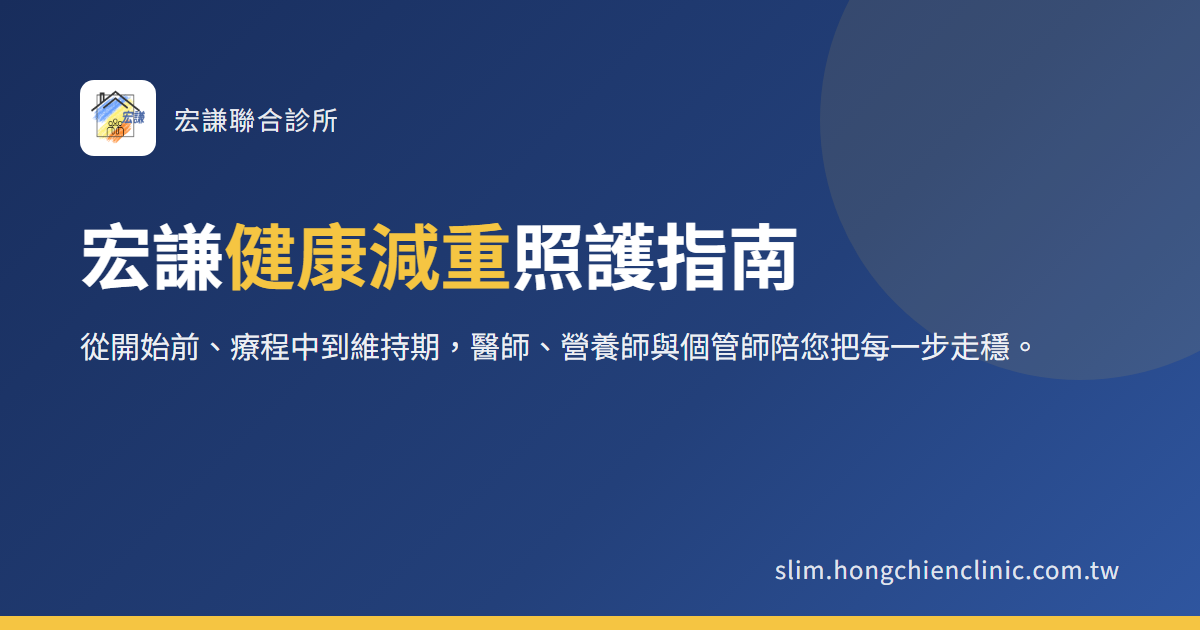
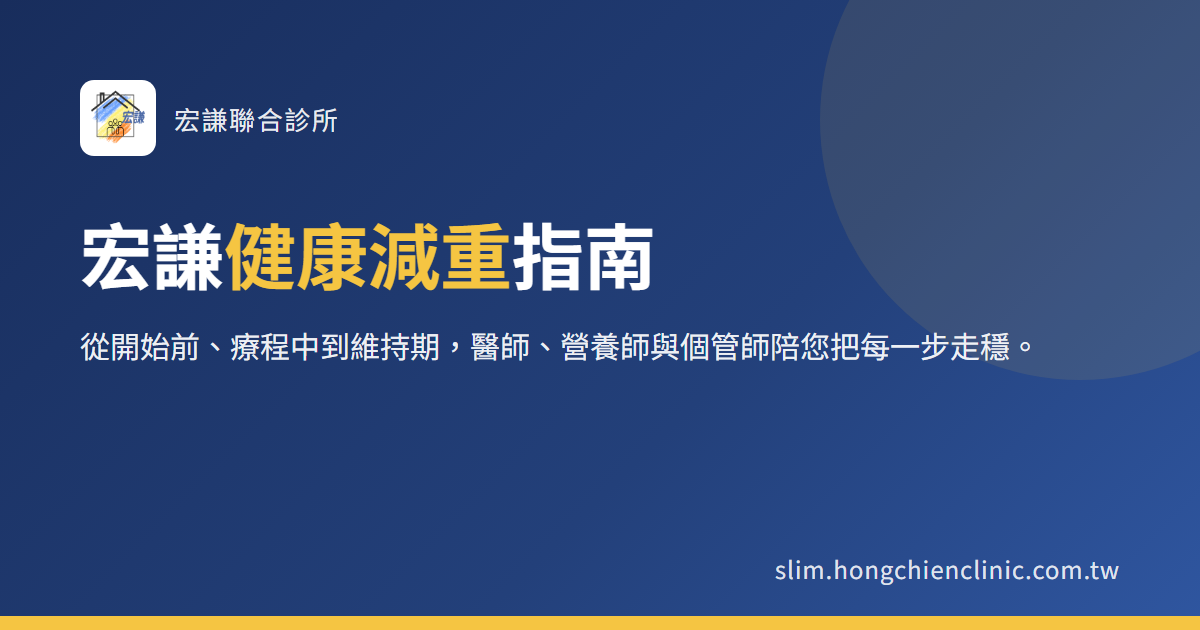
站名改為宏謙健康減重指南

Changed region(s): [[0.4317, 0.3317, 0.6783, 0.4825]]

diff --git a/docs/articles/research-ntuh-cancer-risk/index.html b/docs/articles/research-ntuh-cancer-risk/index.html
@@ -3,15 +3,15 @@
 <head>
 <meta charset="utf-8">
 <meta name="viewport" content="width=device-width, initial-scale=1">
-<title>研究怎麼說：台大醫院研究，肥胖者使用腸泌素，肥胖相關癌症風險下降四成｜宏謙健康減重照護指南</title>
+<title>研究怎麼說：台大醫院研究，肥胖者使用腸泌素，肥胖相關癌症風險下降四成｜宏謙健康減重指南</title>
 <meta name="description" content="2026 年 8 月台大醫院發表在《Annals of Oncology》的跨國研究：無糖尿病的肥胖成年人使用 GLP-1 類藥物，13 種肥胖相關癌症的整體發生風險比只做飲食運動諮詢的人低 41%。這篇說明研究怎麼做、看到什麼、該怎麼解讀。">
 <link rel="canonical" href="https://slim.hongchienclinic.com.tw/articles/research-ntuh-cancer-risk/">
 <meta property="og:type" content="article">
-<meta property="og:title" content="研究怎麼說：台大醫院研究，肥胖者使用腸泌素，肥胖相關癌症風險下降四成｜宏謙健康減重照護指南">
+<meta property="og:title" content="研究怎麼說：台大醫院研究，肥胖者使用腸泌素，肥胖相關癌症風險下降四成｜宏謙健康減重指南">
 <meta property="og:description" content="2026 年 8 月台大醫院發表在《Annals of Oncology》的跨國研究：無糖尿病的肥胖成年人使用 GLP-1 類藥物，13 種肥胖相關癌症的整體發生風險比只做飲食運動諮詢的人低 41%。這篇說明研究怎麼做、看到什麼、該怎麼解讀。">
 <meta property="og:url" content="https://slim.hongchienclinic.com.tw/articles/research-ntuh-cancer-risk/">
 <meta property="og:image" content="https://slim.hongchienclinic.com.tw/assets/img/og.png">
-<meta property="og:site_name" content="宏謙健康減重照護指南">
+<meta property="og:site_name" content="宏謙健康減重指南">
 <meta property="og:locale" content="zh_TW">
 <meta name="twitter:card" content="summary_large_image">
 <link rel="icon" href="/assets/img/logo-72.png">
@@ -26,7 +26,7 @@
 <a class="skip" href="#main">跳到主要內容</a>
 <header class="top">
   <div class="wrap top-in">
-    <a class="brand" href="/"><img src="/assets/img/logo-72.png" alt="" width="40" height="40"><span><b>宏謙</b>健康減重 照護指南</span></a>
+    <a class="brand" href="/"><img src="/assets/img/logo-72.png" alt="" width="40" height="40"><span><b>宏謙</b>健康減重指南</span></a>
     <nav class="nav" aria-label="主選單">
       <a href="/start/">開始前</a>
       <a href="/during/">療程中</a>

diff --git a/docs/articles/research-muscle-preservation/index.html b/docs/articles/research-muscle-preservation/index.html
@@ -3,15 +3,15 @@
 <head>
 <meta charset="utf-8">
 <meta name="viewport" content="width=device-width, initial-scale=1">
-<title>研究怎麼說：減重針期間的肌肉流失，蛋白質與阻力運動能擋住多少｜宏謙健康減重照護指南</title>
+<title>研究怎麼說：減重針期間的肌肉流失，蛋白質與阻力運動能擋住多少｜宏謙健康減重指南</title>
 <meta name="description" content="近年的臨床研究陸續指出，使用減重藥物時減掉的體重中有一部分是瘦體重；同時也有研究顯示，足夠的蛋白質與阻力運動能明顯減少這個比例。這對您的意義是什麼。">
 <link rel="canonical" href="https://slim.hongchienclinic.com.tw/articles/research-muscle-preservation/">
 <meta property="og:type" content="article">
-<meta property="og:title" content="研究怎麼說：減重針期間的肌肉流失，蛋白質與阻力運動能擋住多少｜宏謙健康減重照護指南">
+<meta property="og:title" content="研究怎麼說：減重針期間的肌肉流失，蛋白質與阻力運動能擋住多少｜宏謙健康減重指南">
 <meta property="og:description" content="近年的臨床研究陸續指出，使用減重藥物時減掉的體重中有一部分是瘦體重；同時也有研究顯示，足夠的蛋白質與阻力運動能明顯減少這個比例。這對您的意義是什麼。">
 <meta property="og:url" content="https://slim.hongchienclinic.com.tw/articles/research-muscle-preservation/">
 <meta property="og:image" content="https://slim.hongchienclinic.com.tw/assets/img/og.png">
-<meta property="og:site_name" content="宏謙健康減重照護指南">
+<meta property="og:site_name" content="宏謙健康減重指南">
 <meta property="og:locale" content="zh_TW">
 <meta name="twitter:card" content="summary_large_image">
 <link rel="icon" href="/assets/img/logo-72.png">
@@ -26,7 +26,7 @@
 <a class="skip" href="#main">跳到主要內容</a>
 <header class="top">
   <div class="wrap top-in">
-    <a class="brand" href="/"><img src="/assets/img/logo-72.png" alt="" width="40" height="40"><span><b>宏謙</b>健康減重 照護指南</span></a>
+    <a class="brand" href="/"><img src="/assets/img/logo-72.png" alt="" width="40" height="40"><span><b>宏謙</b>健康減重指南</span></a>
     <nav class="nav" aria-label="主選單">
       <a href="/start/">開始前</a>
       <a href="/during/">療程中</a>

diff --git a/docs/articles/protein-portions/index.html b/docs/articles/protein-portions/index.html
@@ -3,15 +3,15 @@
 <head>
 <meta charset="utf-8">
 <meta name="viewport" content="width=device-width, initial-scale=1">
-<title>蛋白質要吃到「份數」：1 份等於 1 顆蛋，每天 10 到 13 份怎麼算｜宏謙健康減重照護指南</title>
+<title>蛋白質要吃到「份數」：1 份等於 1 顆蛋，每天 10 到 13 份怎麼算｜宏謙健康減重指南</title>
 <meta name="description" content="用藥後吃得少，最怕減掉的是肌肉。宏謙診間用「份數」教蛋白質：1 份 7 克、等於 1 顆蛋，掌心大小的肉片算 2 份。這篇教您算自己的份數，也給您一天的範例。">
 <link rel="canonical" href="https://slim.hongchienclinic.com.tw/articles/protein-portions/">
 <meta property="og:type" content="article">
-<meta property="og:title" content="蛋白質要吃到「份數」：1 份等於 1 顆蛋，每天 10 到 13 份怎麼算｜宏謙健康減重照護指南">
+<meta property="og:title" content="蛋白質要吃到「份數」：1 份等於 1 顆蛋，每天 10 到 13 份怎麼算｜宏謙健康減重指南">
 <meta property="og:description" content="用藥後吃得少，最怕減掉的是肌肉。宏謙診間用「份數」教蛋白質：1 份 7 克、等於 1 顆蛋，掌心大小的肉片算 2 份。這篇教您算自己的份數，也給您一天的範例。">
 <meta property="og:url" content="https://slim.hongchienclinic.com.tw/articles/protein-portions/">
 <meta property="og:image" content="https://slim.hongchienclinic.com.tw/assets/img/og.png">
-<meta property="og:site_name" content="宏謙健康減重照護指南">
+<meta property="og:site_name" content="宏謙健康減重指南">
 <meta property="og:locale" content="zh_TW">
 <meta name="twitter:card" content="summary_large_image">
 <link rel="icon" href="/assets/img/logo-72.png">
@@ -26,7 +26,7 @@
 <a class="skip" href="#main">跳到主要內容</a>
 <header class="top">
   <div class="wrap top-in">
-    <a class="brand" href="/"><img src="/assets/img/logo-72.png" alt="" width="40" height="40"><span><b>宏謙</b>健康減重 照護指南</span></a>
+    <a class="brand" href="/"><img src="/assets/img/logo-72.png" alt="" width="40" height="40"><span><b>宏謙</b>健康減重指南</span></a>
     <nav class="nav" aria-label="主選單">
       <a href="/start/">開始前</a>
       <a href="/during/">療程中</a>

diff --git a/docs/articles/side-effects-care/index.html b/docs/articles/side-effects-care/index.html
@@ -3,15 +3,15 @@
 <head>
 <meta charset="utf-8">
 <meta name="viewport" content="width=device-width, initial-scale=1">
-<title>噁心、胃脹、便祕、注射處紅腫：療程初期的不適怎麼照顧｜宏謙健康減重照護指南</title>
+<title>噁心、胃脹、便祕、注射處紅腫：療程初期的不適怎麼照顧｜宏謙健康減重指南</title>
 <meta name="description" content="適應期最常見的四種不適，大部分可以自己處理，也有幾種情況必須立刻就醫。這篇把「怎麼做」和「什麼時候要來」分開講清楚。">
 <link rel="canonical" href="https://slim.hongchienclinic.com.tw/articles/side-effects-care/">
 <meta property="og:type" content="article">
-<meta property="og:title" content="噁心、胃脹、便祕、注射處紅腫：療程初期的不適怎麼照顧｜宏謙健康減重照護指南">
+<meta property="og:title" content="噁心、胃脹、便祕、注射處紅腫：療程初期的不適怎麼照顧｜宏謙健康減重指南">
 <meta property="og:description" content="適應期最常見的四種不適，大部分可以自己處理，也有幾種情況必須立刻就醫。這篇把「怎麼做」和「什麼時候要來」分開講清楚。">
 <meta property="og:url" content="https://slim.hongchienclinic.com.tw/articles/side-effects-care/">
 <meta property="og:image" content="https://slim.hongchienclinic.com.tw/assets/img/og.png">
-<meta property="og:site_name" content="宏謙健康減重照護指南">
+<meta property="og:site_name" content="宏謙健康減重指南">
 <meta property="og:locale" content="zh_TW">
 <meta name="twitter:card" content="summary_large_image">
 <link rel="icon" href="/assets/img/logo-72.png">
@@ -26,7 +26,7 @@
 <a class="skip" href="#main">跳到主要內容</a>
 <header class="top">
   <div class="wrap top-in">
-    <a class="brand" href="/"><img src="/assets/img/logo-72.png" alt="" width="40" height="40"><span><b>宏謙</b>健康減重 照護指南</span></a>
+    <a class="brand" href="/"><img src="/assets/img/logo-72.png" alt="" width="40" height="40"><span><b>宏謙</b>健康減重指南</span></a>
     <nav class="nav" aria-label="主選單">
       <a href="/start/">開始前</a>
       <a href="/during/">療程中</a>

diff --git a/docs/articles/fatty-liver-and-weight/index.html b/docs/articles/fatty-liver-and-weight/index.html
@@ -3,15 +3,15 @@
 <head>
 <meta charset="utf-8">
 <meta name="viewport" content="width=device-width, initial-scale=1">
-<title>脂肪肝與減重：肝有多油、有多硬，減重時要一起看｜宏謙健康減重照護指南</title>
+<title>脂肪肝與減重：肝有多油、有多硬，減重時要一起看｜宏謙健康減重指南</title>
 <meta name="description" content="健檢上的「脂肪肝」三個字，常常被當成「回去減肥」就結束。其實它是代謝問題的一部分，減重時一起追蹤，才知道有沒有真的改善。">
 <link rel="canonical" href="https://slim.hongchienclinic.com.tw/articles/fatty-liver-and-weight/">
 <meta property="og:type" content="article">
-<meta property="og:title" content="脂肪肝與減重：肝有多油、有多硬，減重時要一起看｜宏謙健康減重照護指南">
+<meta property="og:title" content="脂肪肝與減重：肝有多油、有多硬，減重時要一起看｜宏謙健康減重指南">
 <meta property="og:description" content="健檢上的「脂肪肝」三個字，常常被當成「回去減肥」就結束。其實它是代謝問題的一部分，減重時一起追蹤，才知道有沒有真的改善。">
 <meta property="og:url" content="https://slim.hongchienclinic.com.tw/articles/fatty-liver-and-weight/">
 <meta property="og:image" content="https://slim.hongchienclinic.com.tw/assets/img/og.png">
-<meta property="og:site_name" content="宏謙健康減重照護指南">
+<meta property="og:site_name" content="宏謙健康減重指南">
 <meta property="og:locale" content="zh_TW">
 <meta name="twitter:card" content="summary_large_image">
 <link rel="icon" href="/assets/img/logo-72.png">
@@ -26,7 +26,7 @@
 <a class="skip" href="#main">跳到主要內容</a>
 <header class="top">
   <div class="wrap top-in">
-    <a class="brand" href="/"><img src="/assets/img/logo-72.png" alt="" width="40" height="40"><span><b>宏謙</b>健康減重 照護指南</span></a>
+    <a class="brand" href="/"><img src="/assets/img/logo-72.png" alt="" width="40" height="40"><span><b>宏謙</b>健康減重指南</span></a>
     <nav class="nav" aria-label="主選單">
       <a href="/start/">開始前</a>
       <a href="/during/">療程中</a>

diff --git a/docs/articles/event-fibroscan-2026-09/index.html b/docs/articles/event-fibroscan-2026-09/index.html
@@ -3,15 +3,15 @@
 <head>
 <meta charset="utf-8">
 <meta name="viewport" content="width=device-width, initial-scale=1">
-<title>診所活動紀實：與諾和諾德合作的脂肪肝篩檢日｜宏謙健康減重照護指南</title>
+<title>診所活動紀實：與諾和諾德合作的脂肪肝篩檢日｜宏謙健康減重指南</title>
 <meta name="description" content="2026 年 9 月 11 日，宏謙成為雙北首家脂肪肝篩檢專案合作診所，為約三十位民眾完成 FibroScan 肝臟掃描，每份報告由院長親自判讀、當面說明。">
 <link rel="canonical" href="https://slim.hongchienclinic.com.tw/articles/event-fibroscan-2026-09/">
 <meta property="og:type" content="article">
-<meta property="og:title" content="診所活動紀實：與諾和諾德合作的脂肪肝篩檢日｜宏謙健康減重照護指南">
+<meta property="og:title" content="診所活動紀實：與諾和諾德合作的脂肪肝篩檢日｜宏謙健康減重指南">
 <meta property="og:description" content="2026 年 9 月 11 日，宏謙成為雙北首家脂肪肝篩檢專案合作診所，為約三十位民眾完成 FibroScan 肝臟掃描，每份報告由院長親自判讀、當面說明。">
 <meta property="og:url" content="https://slim.hongchienclinic.com.tw/articles/event-fibroscan-2026-09/">
 <meta property="og:image" content="https://slim.hongchienclinic.com.tw/assets/img/og.png">
-<meta property="og:site_name" content="宏謙健康減重照護指南">
+<meta property="og:site_name" content="宏謙健康減重指南">
 <meta property="og:locale" content="zh_TW">
 <meta name="twitter:card" content="summary_large_image">
 <link rel="icon" href="/assets/img/logo-72.png">
@@ -26,7 +26,7 @@
 <a class="skip" href="#main">跳到主要內容</a>
 <header class="top">
   <div class="wrap top-in">
-    <a class="brand" href="/"><img src="/assets/img/logo-72.png" alt="" width="40" height="40"><span><b>宏謙</b>健康減重 照護指南</span></a>
+    <a class="brand" href="/"><img src="/assets/img/logo-72.png" alt="" width="40" height="40"><span><b>宏謙</b>健康減重指南</span></a>
     <nav class="nav" aria-label="主選單">
       <a href="/start/">開始前</a>
       <a href="/during/">療程中</a>

diff --git a/docs/articles/how-treatment-works/index.html b/docs/articles/how-treatment-works/index.html
@@ -3,15 +3,15 @@
 <head>
 <meta charset="utf-8">
 <meta name="viewport" content="width=device-width, initial-scale=1">
-<title>減重治療怎麼進行？從第一次門診到維持期的完整流程｜宏謙健康減重照護指南</title>
+<title>減重治療怎麼進行？從第一次門診到維持期的完整流程｜宏謙健康減重指南</title>
 <meta name="description" content="第一次門診會做什麼、藥物治療怎麼開始、營養師和個管師什麼時候介入、多久回診一次。先看懂流程，治療就不會走一步猜一步。">
 <link rel="canonical" href="https://slim.hongchienclinic.com.tw/articles/how-treatment-works/">
 <meta property="og:type" content="article">
-<meta property="og:title" content="減重治療怎麼進行？從第一次門診到維持期的完整流程｜宏謙健康減重照護指南">
+<meta property="og:title" content="減重治療怎麼進行？從第一次門診到維持期的完整流程｜宏謙健康減重指南">
 <meta property="og:description" content="第一次門診會做什麼、藥物治療怎麼開始、營養師和個管師什麼時候介入、多久回診一次。先看懂流程，治療就不會走一步猜一步。">
 <meta property="og:url" content="https://slim.hongchienclinic.com.tw/articles/how-treatment-works/">
 <meta property="og:image" content="https://slim.hongchienclinic.com.tw/assets/img/og.png">
-<meta property="og:site_name" content="宏謙健康減重照護指南">
+<meta property="og:site_name" content="宏謙健康減重指南">
 <meta property="og:locale" content="zh_TW">
 <meta name="twitter:card" content="summary_large_image">
 <link rel="icon" href="/assets/img/logo-72.png">
@@ -26,7 +26,7 @@
 <a class="skip" href="#main">跳到主要內容</a>
 <header class="top">
   <div class="wrap top-in">
-    <a class="brand" href="/"><img src="/assets/img/logo-72.png" alt="" width="40" height="40"><span><b>宏謙</b>健康減重 照護指南</span></a>
+    <a class="brand" href="/"><img src="/assets/img/logo-72.png" alt="" width="40" height="40"><span><b>宏謙</b>健康減重指南</span></a>
     <nav class="nav" aria-label="主選單">
       <a href="/start/">開始前</a>
       <a href="/during/">療程中</a>

diff --git a/docs/articles/muscle-and-hair/index.html b/docs/articles/muscle-and-hair/index.html
@@ -3,15 +3,15 @@
 <head>
 <meta charset="utf-8">
 <meta name="viewport" content="width=device-width, initial-scale=1">
-<title>減重中期的兩件事：保住肌肉、減少掉髮｜宏謙健康減重照護指南</title>
+<title>減重中期的兩件事：保住肌肉、減少掉髮｜宏謙健康減重指南</title>
 <meta name="description" content="體重明顯下降的第二、三個月，最常出現的是肌肉流失與掉髮。兩件事的解法其實是同一套：蛋白質吃到份數、補足微量營養、開始阻力運動。">
 <link rel="canonical" href="https://slim.hongchienclinic.com.tw/articles/muscle-and-hair/">
 <meta property="og:type" content="article">
-<meta property="og:title" content="減重中期的兩件事：保住肌肉、減少掉髮｜宏謙健康減重照護指南">
+<meta property="og:title" content="減重中期的兩件事：保住肌肉、減少掉髮｜宏謙健康減重指南">
 <meta property="og:description" content="體重明顯下降的第二、三個月，最常出現的是肌肉流失與掉髮。兩件事的解法其實是同一套：蛋白質吃到份數、補足微量營養、開始阻力運動。">
 <meta property="og:url" content="https://slim.hongchienclinic.com.tw/articles/muscle-and-hair/">
 <meta property="og:image" content="https://slim.hongchienclinic.com.tw/assets/img/og.png">
-<meta property="og:site_name" content="宏謙健康減重照護指南">
+<meta property="og:site_name" content="宏謙健康減重指南">
 <meta property="og:locale" content="zh_TW">
 <meta name="twitter:card" content="summary_large_image">
 <link rel="icon" href="/assets/img/logo-72.png">
@@ -26,7 +26,7 @@
 <a class="skip" href="#main">跳到主要內容</a>
 <header class="top">
   <div class="wrap top-in">
-    <a class="brand" href="/"><img src="/assets/img/logo-72.png" alt="" width="40" height="40"><span><b>宏謙</b>健康減重 照護指南</span></a>
+    <a class="brand" href="/"><img src="/assets/img/logo-72.png" alt="" width="40" height="40"><span><b>宏謙</b>健康減重指南</span></a>
     <nav class="nav" aria-label="主選單">
       <a href="/start/">開始前</a>
       <a href="/during/">療程中</a>

diff --git a/docs/articles/hydration/index.html b/docs/articles/hydration/index.html
@@ -3,15 +3,15 @@
 <head>
 <meta charset="utf-8">
 <meta name="viewport" content="width=device-width, initial-scale=1">
-<title>減重期間水要怎麼喝：分散到整天，別等口渴｜宏謙健康減重照護指南</title>
+<title>減重期間水要怎麼喝：分散到整天，別等口渴｜宏謙健康減重指南</title>
 <meta name="description" content="用藥後常常不覺得渴，卻更容易脫水、便祕、頭暈。個管師會幫您算好每天的量，這篇說明怎麼分配、什麼算數、什麼情況要注意。">
 <link rel="canonical" href="https://slim.hongchienclinic.com.tw/articles/hydration/">
 <meta property="og:type" content="article">
-<meta property="og:title" content="減重期間水要怎麼喝：分散到整天，別等口渴｜宏謙健康減重照護指南">
+<meta property="og:title" content="減重期間水要怎麼喝：分散到整天，別等口渴｜宏謙健康減重指南">
 <meta property="og:description" content="用藥後常常不覺得渴，卻更容易脫水、便祕、頭暈。個管師會幫您算好每天的量，這篇說明怎麼分配、什麼算數、什麼情況要注意。">
 <meta property="og:url" content="https://slim.hongchienclinic.com.tw/articles/hydration/">
 <meta property="og:image" content="https://slim.hongchienclinic.com.tw/assets/img/og.png">
-<meta property="og:site_name" content="宏謙健康減重照護指南">
+<meta property="og:site_name" content="宏謙健康減重指南">
 <meta property="og:locale" content="zh_TW">
 <meta name="twitter:card" content="summary_large_image">
 <link rel="icon" href="/assets/img/logo-72.png">
@@ -26,7 +26,7 @@
 <a class="skip" href="#main">跳到主要內容</a>
 <header class="top">
   <div class="wrap top-in">
-    <a class="brand" href="/"><img src="/assets/img/logo-72.png" alt="" width="40" height="40"><span><b>宏謙</b>健康減重 照護指南</span></a>
+    <a class="brand" href="/"><img src="/assets/img/logo-72.png" alt="" width="40" height="40"><span><b>宏謙</b>健康減重指南</span></a>
     <nav class="nav" aria-label="主選單">
       <a href="/start/">開始前</a>
       <a href="/during/">療程中</a>

diff --git a/docs/articles/resistance-training/index.html b/docs/articles/resistance-training/index.html
@@ -3,15 +3,15 @@
 <head>
 <meta charset="utf-8">
 <meta name="viewport" content="width=device-width, initial-scale=1">
-<title>維持期的運動：每週兩次阻力運動，從家裡開始｜宏謙健康減重照護指南</title>
+<title>維持期的運動：每週兩次阻力運動，從家裡開始｜宏謙健康減重指南</title>
 <meta name="description" content="用藥超過兩個月後，運動是最重要的功課。不需要健身房，這篇給您一套 20 分鐘的居家菜單，以及怎麼慢慢加量。">
 <link rel="canonical" href="https://slim.hongchienclinic.com.tw/articles/resistance-training/">
 <meta property="og:type" content="article">
-<meta property="og:title" content="維持期的運動：每週兩次阻力運動，從家裡開始｜宏謙健康減重照護指南">
+<meta property="og:title" content="維持期的運動：每週兩次阻力運動，從家裡開始｜宏謙健康減重指南">
 <meta property="og:description" content="用藥超過兩個月後，運動是最重要的功課。不需要健身房，這篇給您一套 20 分鐘的居家菜單，以及怎麼慢慢加量。">
 <meta property="og:url" content="https://slim.hongchienclinic.com.tw/articles/resistance-training/">
 <meta property="og:image" content="https://slim.hongchienclinic.com.tw/assets/img/og.png">
-<meta property="og:site_name" content="宏謙健康減重照護指南">
+<meta property="og:site_name" content="宏謙健康減重指南">
 <meta property="og:locale" content="zh_TW">
 <meta name="twitter:card" content="summary_large_image">
 <link rel="icon" href="/assets/img/logo-72.png">
@@ -26,7 +26,7 @@
 <a class="skip" href="#main">跳到主要內容</a>
 <header class="top">
   <div class="wrap top-in">
-    <a class="brand" href="/"><img src="/assets/img/logo-72.png" alt="" width="40" height="40"><span><b>宏謙</b>健康減重 照護指南</span></a>
+    <a class="brand" href="/"><img src="/assets/img/logo-72.png" alt="" width="40" height="40"><span><b>宏謙</b>健康減重指南</span></a>
     <nav class="nav" aria-label="主選單">
       <a href="/start/">開始前</a>
       <a href="/during/">療程中</a>

diff --git a/docs/articles/plateau/index.html b/docs/articles/plateau/index.html
@@ -3,15 +3,15 @@
 <head>
 <meta charset="utf-8">
 <meta name="viewport" content="width=device-width, initial-scale=1">
-<title>體重停滯了怎麼辦？先看這三件事，再談調藥｜宏謙健康減重照護指南</title>
+<title>體重停滯了怎麼辦？先看這三件事，再談調藥｜宏謙健康減重指南</title>
 <meta name="description" content="減重兩、三個月後體重不動，是幾乎每個人都會遇到的階段。停滯不等於失敗，這篇教您先檢查什麼、什麼時候該回診討論。">
 <link rel="canonical" href="https://slim.hongchienclinic.com.tw/articles/plateau/">
 <meta property="og:type" content="article">
-<meta property="og:title" content="體重停滯了怎麼辦？先看這三件事，再談調藥｜宏謙健康減重照護指南">
+<meta property="og:title" content="體重停滯了怎麼辦？先看這三件事，再談調藥｜宏謙健康減重指南">
 <meta property="og:description" content="減重兩、三個月後體重不動，是幾乎每個人都會遇到的階段。停滯不等於失敗，這篇教您先檢查什麼、什麼時候該回診討論。">
 <meta property="og:url" content="https://slim.hongchienclinic.com.tw/articles/plateau/">
 <meta property="og:image" content="https://slim.hongchienclinic.com.tw/assets/img/og.png">
-<meta property="og:site_name" content="宏謙健康減重照護指南">
+<meta property="og:site_name" content="宏謙健康減重指南">
 <meta property="og:locale" content="zh_TW">
 <meta name="twitter:card" content="summary_large_image">
 <link rel="icon" href="/assets/img/logo-72.png">
@@ -26,7 +26,7 @@
 <a class="skip" href="#main">跳到主要內容</a>
 <header class="top">
   <div class="wrap top-in">
-    <a class="brand" href="/"><img src="/assets/img/logo-72.png" alt="" width="40" height="40"><span><b>宏謙</b>健康減重 照護指南</span></a>
+    <a class="brand" href="/"><img src="/assets/img/logo-72.png" alt="" width="40" height="40"><span><b>宏謙</b>健康減重指南</span></a>
     <nav class="nav" aria-label="主選單">
       <a href="/start/">開始前</a>
       <a href="/during/">療程中</a>

diff --git a/docs/articles/211-plate/index.html b/docs/articles/211-plate/index.html
@@ -3,15 +3,15 @@
 <head>
 <meta charset="utf-8">
 <meta name="viewport" content="width=device-width, initial-scale=1">
-<title>211 餐盤：減重期間每一餐的配法，外食也能用｜宏謙健康減重照護指南</title>
+<title>211 餐盤：減重期間每一餐的配法，外食也能用｜宏謙健康減重指南</title>
 <meta name="description" content="一半蔬菜、四分之一蛋白質、四分之一主食，蛋白質先吃。這篇把 211 餐盤講成自助餐、便當、麵店都能用的版本。">
 <link rel="canonical" href="https://slim.hongchienclinic.com.tw/articles/211-plate/">
 <meta property="og:type" content="article">
-<meta property="og:title" content="211 餐盤：減重期間每一餐的配法，外食也能用｜宏謙健康減重照護指南">
+<meta property="og:title" content="211 餐盤：減重期間每一餐的配法，外食也能用｜宏謙健康減重指南">
 <meta property="og:description" content="一半蔬菜、四分之一蛋白質、四分之一主食，蛋白質先吃。這篇把 211 餐盤講成自助餐、便當、麵店都能用的版本。">
 <meta property="og:url" content="https://slim.hongchienclinic.com.tw/articles/211-plate/">
 <meta property="og:image" content="https://slim.hongchienclinic.com.tw/assets/img/og.png">
-<meta property="og:site_name" content="宏謙健康減重照護指南">
+<meta property="og:site_name" content="宏謙健康減重指南">
 <meta property="og:locale" content="zh_TW">
 <meta name="twitter:card" content="summary_large_image">
 <link rel="icon" href="/assets/img/logo-72.png">
@@ -26,7 +26,7 @@
 <a class="skip" href="#main">跳到主要內容</a>
 <header class="top">
   <div class="wrap top-in">
-    <a class="brand" href="/"><img src="/assets/img/logo-72.png" alt="" width="40" height="40"><span><b>宏謙</b>健康減重 照護指南</span></a>
+    <a class="brand" href="/"><img src="/assets/img/logo-72.png" alt="" width="40" height="40"><span><b>宏謙</b>健康減重指南</span></a>
     <nav class="nav" aria-label="主選單">
       <a href="/start/">開始前</a>
       <a href="/during/">療程中</a>
